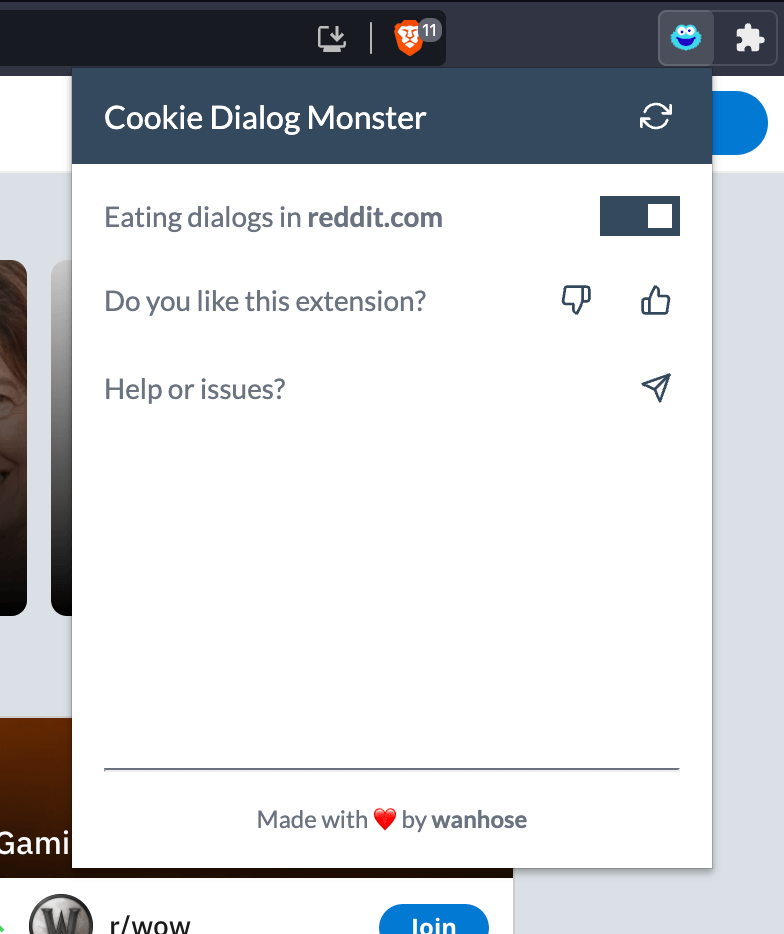
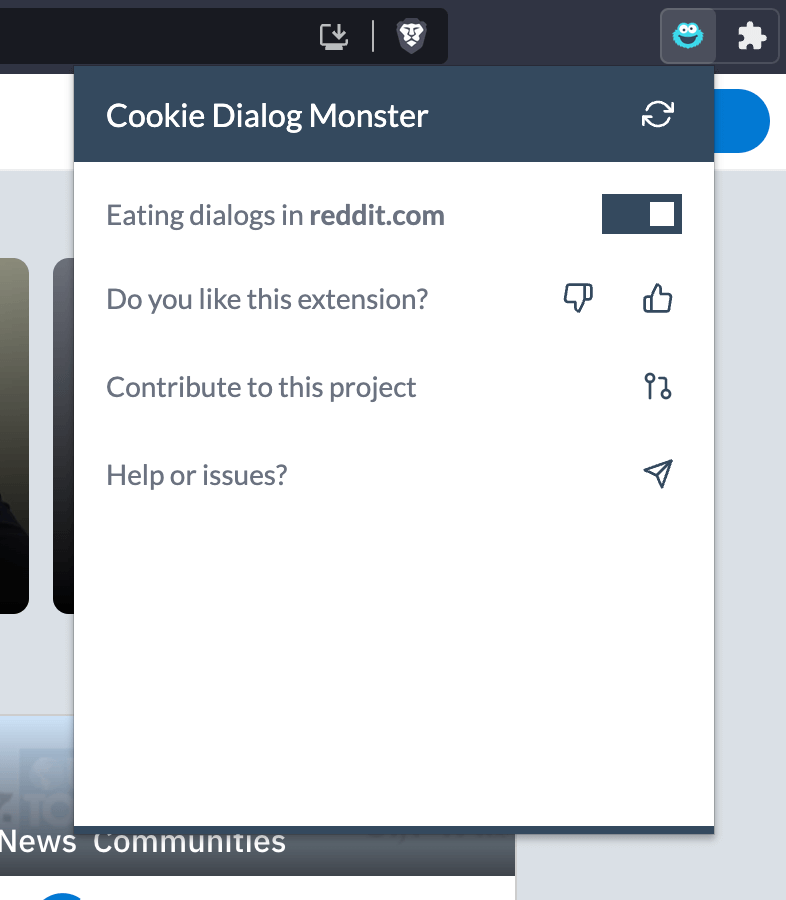
refactor(browser-extension): popup layout

diff --git a/packages/browser-extension/src/popup.html b/packages/browser-extension/src/popup.html
@@ -2,7 +2,7 @@
   <head>
     <link rel="stylesheet" href="/styles/fonts.css" />
     <link rel="stylesheet" href="/styles/reset.css" />
-    <link rel="stylesheet" href="/styles/globals.css" />
+    <link rel="stylesheet" href="/styles/popup.css" />
     <meta charset="UTF-8" />
     <meta name="author" content="wanhose" />
     <script src="/scripts/popup.js"></script>
@@ -84,6 +84,27 @@
         <p data-i18n="negativeText" hidden="true" id="negative"></p>
         <p data-i18n="positiveText" hidden="true" id="positive"></p>
       </div>
+      <div class="contribute">
+        <span data-i18n="contributeText"></span>
+        <a href="https://www.github.com/wanhose/cookie-dialog-monster" target="_blank">
+          <svg
+            xmlns="http://www.w3.org/2000/svg"
+            width="24"
+            height="24"
+            viewBox="0 0 24 24"
+            fill="none"
+            stroke="currentColor"
+            stroke-width="2"
+            stroke-linecap="round"
+            stroke-linejoin="round"
+          >
+            <circle cx="18" cy="18" r="3"></circle>
+            <circle cx="6" cy="6" r="3"></circle>
+            <path d="M13 6h3a2 2 0 0 1 2 2v7"></path>
+            <line x1="6" y1="9" x2="6" y2="21"></line>
+          </svg>
+        </a>
+      </div>
       <div class="help">
         <span data-i18n="helpText"></span>
         <a href="mailto:hello@wanhose.dev" target="_blank">
@@ -104,10 +125,6 @@
         </a>
       </div>
     </main>
-    <footer>
-      <hr />
-      <span data-i18n="footerText"></span>
-      <a href="https://github.com/wanhose" target="_blank">wanhose</a>
-    </footer>
+    <footer></footer>
   </body>
 </html>

diff --git a/packages/browser-extension/src/styles/popup.css b/packages/browser-extension/src/styles/popup.css
@@ -25,7 +25,7 @@ body {
   display: flex;
   flex-direction: column;
   font-family: 'Lato', Arial, Helvetica, sans-serif;
-  height: 25rem;
+  height: 24rem;
   width: 20rem;
 }
 
@@ -34,9 +34,10 @@ button {
 }
 
 footer {
+  background-color: var(--color-secondary);
   font-size: 0.75rem;
+  height: 0.25rem;
   margin-top: auto;
-  padding: 1rem;
   text-align: center;
 }
 
@@ -109,18 +110,23 @@ svg {
   font-size: 1rem;
 }
 
+.contribute,
 .help {
   align-items: center;
   display: flex;
+  font-size: 0.875rem;
   justify-content: space-between;
 }
 
+.contribute > a,
 .help > a {
   color: var(--color-secondary);
   padding: 0.25rem;
   transition: 0.4s;
 }
 
+.contribute > a:focus,
+.contribute > a:hover,
 .help > a:focus,
 .help > a:hover {
   background-color: var(--color-secondary);
@@ -129,18 +135,11 @@ svg {
   outline: none;
 }
 
-.help > span {
-  font-size: 0.875rem;
-}
-
 .rating {
   align-items: center;
   display: flex;
-  justify-content: space-between;
-}
-
-.rating > span {
   font-size: 0.875rem;
+  justify-content: space-between;
 }
 
 .rating-actions {
